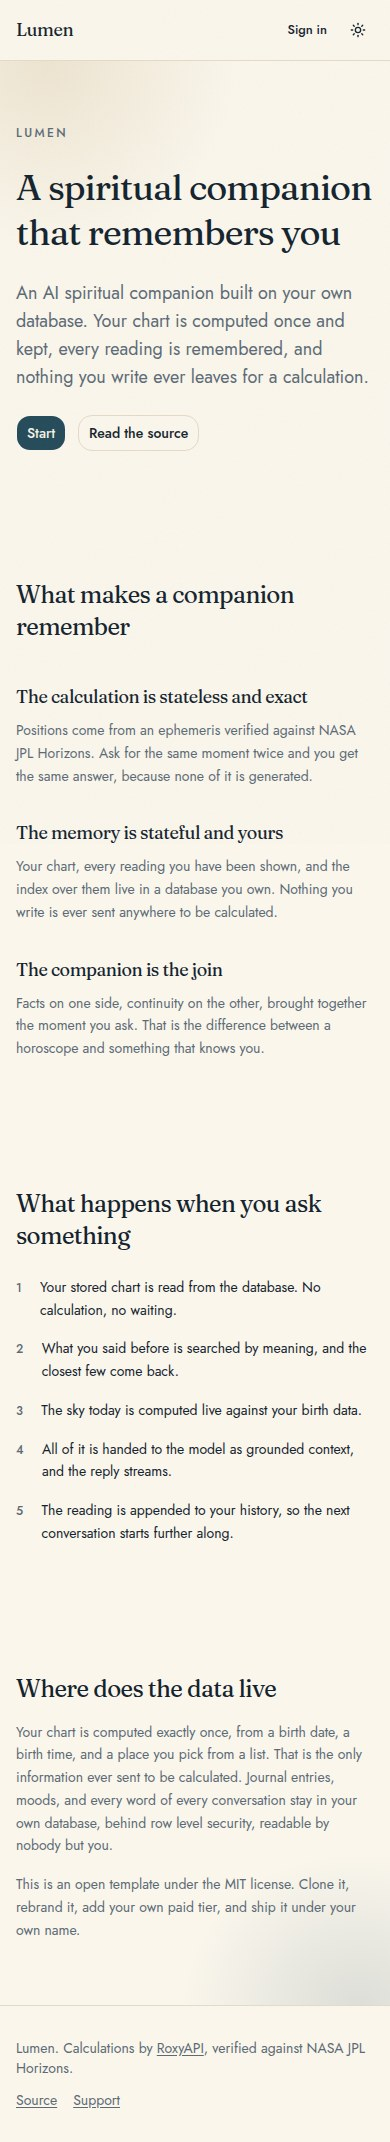
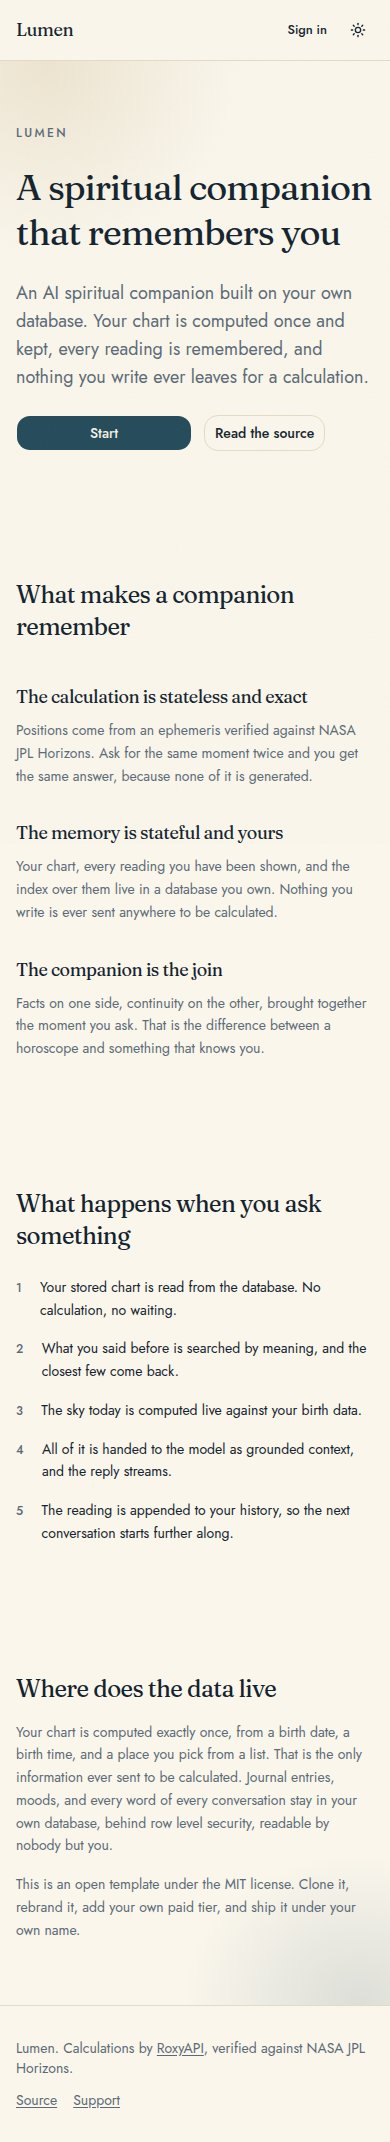
fix: sign in and sign out run on the server, so the browser only ever needs the app port

Changed region(s): [[0.1538, 0.1849, 0.4923, 0.2157], [0.5538, 0.1849, 0.6769, 0.2157], [0.7077, 0.1849, 0.8, 0.2157]]

diff --git a/src/app/auth/actions.ts b/src/app/auth/actions.ts
@@ -1,0 +1,27 @@
+'use server';
+
+import { headers } from 'next/headers';
+import { redirect } from 'next/navigation';
+import { createClient } from '@/lib/supabase/server';
+
+/**
+ * Runs on the server so the browser only ever talks to this app. The Supabase URL does not need to
+ * be reachable from the visitor's machine, which is what keeps sign in working over SSH tunnels,
+ * containers, and preview deployments alike.
+ */
+export async function sendMagicLink(email: string): Promise<{ error: string | null }> {
+  const origin = (await headers()).get('origin') ?? 'http://localhost:3000';
+  const supabase = await createClient();
+  const { error } = await supabase.auth.signInWithOtp({
+    email,
+    options: { emailRedirectTo: `${origin}/auth/confirm?next=/companion` },
+  });
+  return { error: error?.message ?? null };
+}
+
+/** Ends the session on the server and returns to the landing page. */
+export async function signOut(): Promise<void> {
+  const supabase = await createClient();
+  await supabase.auth.signOut();
+  redirect('/');
+}

diff --git a/src/components/sign-in-form.tsx b/src/components/sign-in-form.tsx
@@ -2,10 +2,10 @@
 
 import { Loader2, MailCheck } from 'lucide-react';
 import { useState } from 'react';
+import { sendMagicLink } from '@/app/auth/actions';
 import { Button } from '@/components/ui/button';
 import { Input } from '@/components/ui/input';
 import { Label } from '@/components/ui/label';
-import { createClient } from '@/lib/supabase/client';
 
 /**
  * One field and one button. A link in an email means no password for somebody to remember, no reset
@@ -57,13 +57,10 @@ export function SignInForm() {
         setPending(true);
         setError(null);
 
-        const { error: signInError } = await createClient().auth.signInWithOtp({
-          email,
-          options: { emailRedirectTo: `${window.location.origin}/auth/confirm?next=/companion` },
-        });
+        const { error: signInError } = await sendMagicLink(email);
 
         setPending(false);
-        if (signInError) setError(signInError.message);
+        if (signInError) setError(signInError);
         else setSentTo(email);
       }}
     >

diff --git a/src/components/sign-out-button.tsx b/src/components/sign-out-button.tsx
@@ -1,23 +1,12 @@
 'use client';
 
-import { useRouter } from 'next/navigation';
+import { signOut } from '@/app/auth/actions';
 import { Button } from '@/components/ui/button';
-import { createClient } from '@/lib/supabase/client';
 
-/** Ends the session and returns to the landing page. */
+/** Ends the session and returns to the landing page. The call runs on the server. */
 export function SignOutButton() {
-  const router = useRouter();
-
   return (
-    <Button
-      variant="ghost"
-      size="sm"
-      onClick={async () => {
-        await createClient().auth.signOut();
-        router.push('/');
-        router.refresh();
-      }}
-    >
+    <Button variant="ghost" size="sm" onClick={() => signOut()}>
       Sign out
     </Button>
   );

diff --git a/src/app/page.tsx b/src/app/page.tsx
@@ -55,7 +55,7 @@ export default async function HomePage() {
         </h1>
         <p className="max-w-2xl text-lg text-muted-foreground">{config.description}</p>
         <div className="flex flex-wrap gap-3">
-          <Button asChild size="lg">
+          <Button asChild size="lg" className="min-w-44">
             <Link href="/auth/login">Start</Link>
           </Button>
           <Button asChild size="lg" variant="outline">

diff --git a/README.md b/README.md
@@ -103,6 +103,8 @@ npm run dev
 
 **5. Create an account.** Open http://localhost:3000, press **Start**, and enter any email address. It does not have to be real, and nothing leaves your machine. Open the local mail viewer at **http://127.0.0.1:54324**, open the message that just arrived, and click **Sign in**. That link creates the account and signs you in.
 
+Working over SSH, a container, or a cloud editor with port forwarding? Forward ports **3000** and **54324** and you are done. Sign in, sign out, and the emailed link all run through the app on the server, so the Supabase API port never needs to be reachable from your browser.
+
 **6. Onboard.** Three steps: why the chart is computed once, your birth date and time and city, and the voice you want. The chart is calculated at the end of it, one time.
 
 **7. Verify the memory.** The next section.
